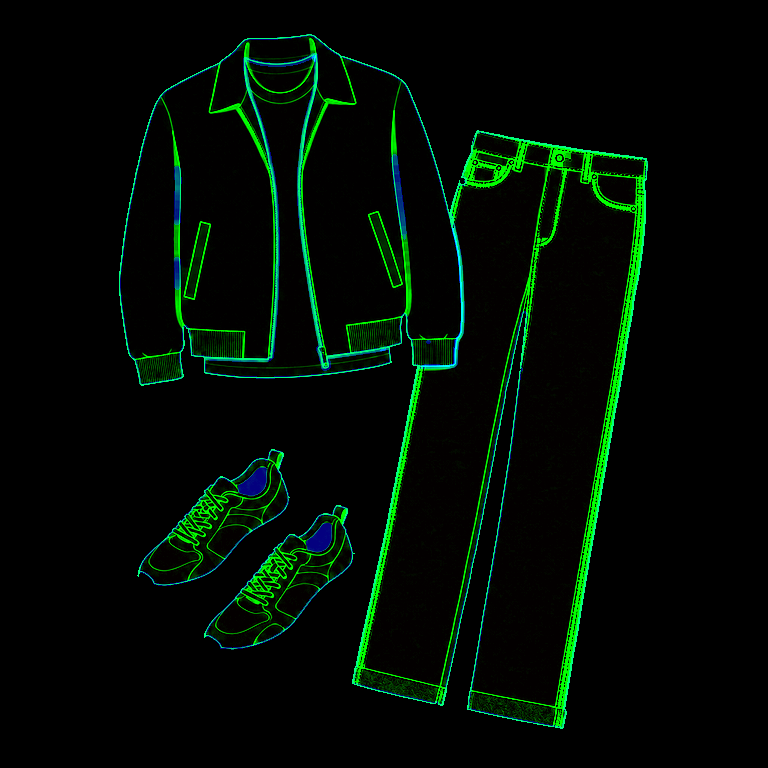
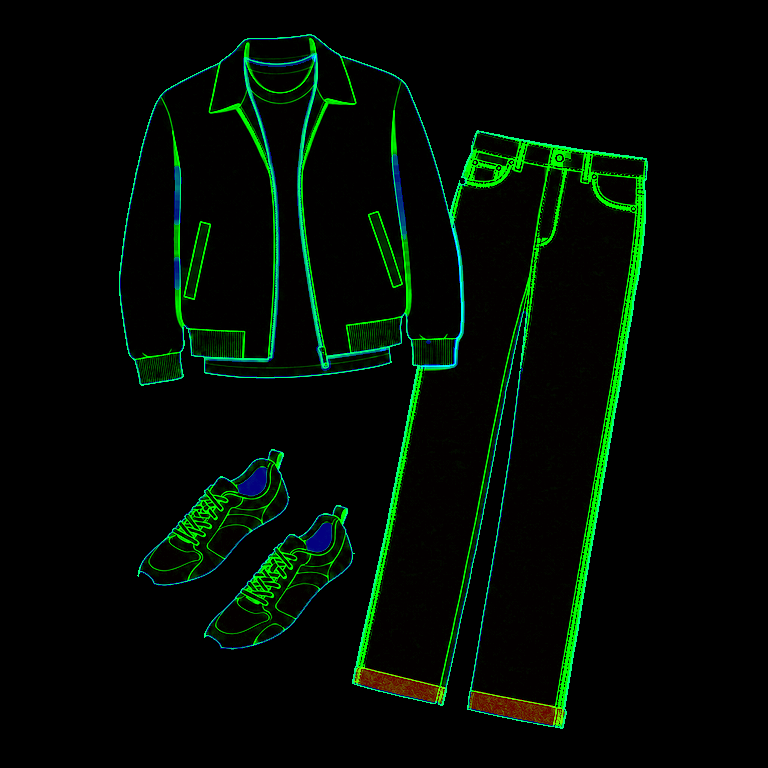
Illustrations: paint rolled jeans cuffs as the lighter inside of denim
The 7 new jeans pictures draw the rolled-up hem in a paler blue, but the
bottom slot painted it with the same flat trouser colour, so the cuff
disappeared once recoloured (reported on the live casual look).

- Mask red channel 100+n now means "lighter inside of slot n".
  renderer.js v4 paints it with the slot colour mixed 60% toward warm
  white (#F6F3EC); ids below 100 render exactly as before.
- scripts/mark_denim_cuffs.py finds the band by its lower saturation at
  the hem (2 bands per picture, 3.0k-4.0k px), keeps the outer contour on
  the leg colour, and is idempotent. Both mask builders call it for the
  7 denim ids, so a rebuild reproduces the same masks (checked).
- Tests: mask test accepts 100+n labels and requires cuffs on all 7;
  renderer unit test covers the inside colour.
- adapter.js mask ?v=7 (pictures unchanged, still v=4).

Claude-Session: https://claude.ai/code/session_01MehJjGbokh29Dqrjv8wPxF

Changed region(s): [[0.4688, 0.8438, 0.75, 0.9688]]

diff --git a/assets/dalha-illustrations/renderer.js b/assets/dalha-illustrations/renderer.js
@@ -1,9 +1,14 @@
-/** Colour renderer v3. No networking, model calls, geometry edits or coordinate resampling. */
+/** Colour renderer v4. No networking, model calls, geometry edits or coordinate resampling.
+ * Mask red channel: 0 = keep source, n = slot n, 100+n = the lighter inside of slot n
+ * (rolled-up jeans cuff, 2026-10-15) painted with slot n's colour mixed toward warm white. */
+export const INSIDE_OFFSET=100,INSIDE_MIX=.6,INSIDE_WHITE=[246,243,236];
+const penFor=t=>{const L=t[0]*.2126+t[1]*.7152+t[2]*.0722;return {edge:t.map(v=>L>=100?v*.67:Math.max(v*.50,13)),detail:t.map(v=>L>=100?v*.77:Math.max(v*.63,18))}};
 export function recolor(original,layers,colors){
  if(original.length!==layers.length || original.length%4)throw new Error('RGBA buffers must have matching lengths');
  const palette=colors.map(hex=>{if(!/^#[0-9a-f]{6}$/i.test(hex))throw new Error('Invalid colour');return [1,3,5].map(k=>parseInt(hex.slice(k,k+2),16))});
- const pens=palette.map(t=>{const L=t[0]*.2126+t[1]*.7152+t[2]*.0722;return {edge:t.map(v=>L>=100?v*.67:Math.max(v*.50,13)),detail:t.map(v=>L>=100?v*.77:Math.max(v*.63,18))}});
+ const inside=palette.map(t=>t.map((v,c)=>v+(INSIDE_WHITE[c]-v)*INSIDE_MIX));
+ const pens=palette.map(penFor),insidePens=inside.map(penFor);
  const out=new Uint8ClampedArray(original);
- for(let p=0;p<out.length;p+=4){const id=layers[p]-1;if(id<0)continue;if(!palette[id])throw new Error('Missing region colour');const line=layers[p+1]/255,shade=(layers[p+2]%128)/127,pen=layers[p+2]>=128?pens[id].edge:pens[id].detail;for(let c=0;c<3;c++)out[p+c]=Math.round(palette[id][c]*(1-.13*shade)*(1-line)+pen[c]*line)}
+ for(let p=0;p<out.length;p+=4){let id=layers[p];if(!id)continue;const isInside=id>INSIDE_OFFSET;if(isInside)id-=INSIDE_OFFSET;id-=1;if(!palette[id])throw new Error('Missing region colour');const colour=isInside?inside[id]:palette[id],pen0=isInside?insidePens[id]:pens[id];const line=layers[p+1]/255,shade=(layers[p+2]%128)/127,pen=layers[p+2]>=128?pen0.edge:pen0.detail;for(let c=0;c<3;c++)out[p+c]=Math.round(colour[c]*(1-.13*shade)*(1-line)+pen[c]*line)}
  return out;
 }

diff --git a/assets/dalha-illustrations/adapter.js b/assets/dalha-illustrations/adapter.js
@@ -19,7 +19,7 @@ export async function hydrateIllustrations(root){
   const status=node.querySelector('[data-illustration-status]');
   status.hidden=false;status.textContent='코디 이미지를 불러오고 있습니다.';
   try{
-   const [source,mask]=await Promise.all([image(BASE+entry.id+'.webp?v=4'),image(BASE+entry.id+'-layers.png?v=6')]);
+   const [source,mask]=await Promise.all([image(BASE+entry.id+'.webp?v=4'),image(BASE+entry.id+'-layers.png?v=7')]);
    if(!node.isConnected||node.dataset.dalhaIllustration!==key)return;
    const original=pixels(source),layers=pixels(mask);
    if(original.width!==layers.width||original.height!==layers.height)throw new Error('Illustration layer size mismatch');

diff --git a/scripts/mark_denim_cuffs.py b/scripts/mark_denim_cuffs.py
@@ -1,0 +1,64 @@
+"""Mark the rolled-up inside of jeans cuffs in illustration masks (2026-10-15).
+
+Real denim shows its lighter reverse side where the hem is rolled up. The source
+pictures draw that band in a paler, less saturated blue, but the bottom slot
+paints it with the same flat trouser colour. This step re-labels those pixels
+as ``100 + slot`` in the red channel; renderer.js paints them with a lightened
+version of the slot colour so the cuff stays paler than the leg in any colour.
+
+Run after the mask builders (they call it for DENIM_CUFFS) or on its own:
+    python scripts/mark_denim_cuffs.py [id ...]
+Idempotent: existing cuff labels are reset before detection.
+"""
+from pathlib import Path
+import json, io, sys
+import numpy as np
+from PIL import Image
+from scipy.ndimage import binary_opening, binary_closing, binary_dilation, label
+
+OUT = Path(__file__).resolve().parents[1] / 'assets/dalha-illustrations'
+DENIM_CUFFS = ('m-casual-a', 'm-casual-b', 'f-casual-a', 'all-019', 'all-025', 'all-054', 'all-055')
+INSIDE_OFFSET = 100
+BASE_SLOTS = ['outerColor', 'topColor', 'bottomColor', 'shoeColor']
+
+
+def bottom_slot(key):
+    for q in json.loads((OUT / 'expansion-provenance.json').read_text()):
+        if q['id'] == key:
+            return [s['field'] for s in q['slots']].index('bottomColor') + 1
+    return BASE_SLOTS.index('bottomColor') + 1
+
+
+def mark_cuffs(key):
+    path = OUT / f'{key}-layers.png'
+    layers = np.asarray(Image.open(path).convert('RGB')).copy()
+    r = layers[:, :, 0]
+    r[r > INSIDE_OFFSET] -= INSIDE_OFFSET
+    slot = bottom_slot(key)
+    a = np.asarray(Image.open(OUT / f'{key}.webp').convert('RGB')).astype(float) / 255
+    bot = r == slot
+    mx, mn = a.max(2), a.min(2)
+    sat = (mx - mn) / np.maximum(mx, 1e-6)
+    body = np.median(sat[bot & (layers[:, :, 1] < 40)])
+    cuff = bot & (sat < body - 0.12) & (sat > 0.12) & (mx > np.median(mx[bot]) - 0.02)
+    cuff = binary_closing(binary_opening(cuff, iterations=1), iterations=3) & bot
+    cc, n = label(cuff)
+    sizes = np.bincount(cc.ravel())
+    keep = [i for i in range(1, n + 1) if sizes[i] >= 250]
+    cuff = np.isin(cc, keep)
+    # Take in the stitching and inner edge of the band, but leave the outer
+    # contour of the trousers on the leg colour so the outline stays continuous.
+    cuff = (cuff | binary_dilation(cuff, iterations=2)) & bot & (layers[:, :, 2] < 128)
+    assert 600 <= cuff.sum() <= 6000, (key, int(cuff.sum()))
+    ys = np.where(cuff)[0]
+    assert ys.min() > np.where(bot)[0].max() - 120, (key, 'cuff must sit at the hem')
+    r[cuff] = slot + INSIDE_OFFSET
+    buf = io.BytesIO()
+    Image.fromarray(layers).save(buf, format='PNG')
+    path.write_bytes(buf.getvalue())
+    return int(cuff.sum())
+
+
+if __name__ == '__main__':
+    for key in sys.argv[1:] or DENIM_CUFFS:
+        print(key, mark_cuffs(key))

diff --git a/scripts/test_illustration_masks.py b/scripts/test_illustration_masks.py
@@ -9,8 +9,13 @@ for path in root.glob('*-layers.png'):
     source = Image.open(path.with_name(path.name.replace('-layers.png', '.webp')))
     source.load()
     assert source.size == (mask.shape[1], mask.shape[0]) == (768, 768), path
-    assert set(np.unique(mask[:, :, 0])) == set(range(int(mask[:, :, 0].max()) + 1)), path
-    assert all(np.count_nonzero(mask[:, :, 0] == i) > 100 for i in range(1, int(mask[:, :, 0].max()) + 1)), path
+    r = mask[:, :, 0]
+    slots = r[r < 100]
+    inside = set(np.unique(r[r > 100]) - 100)  # 100+n = lighter inside of slot n (jeans cuffs)
+    assert set(np.unique(slots)) == set(range(int(slots.max()) + 1)), path
+    assert all(np.count_nonzero(r == i) > 100 for i in range(1, int(slots.max()) + 1)), path
+    assert inside <= set(range(1, int(slots.max()) + 1)), path
+    assert not np.any(r == 100), path
 
 # Reported red bomber / blue jeans / burgundy sneakers screenshot.
 mask = np.asarray(Image.open(root / 'm-casual-b-layers.png'))[:, :, 0]
@@ -21,4 +26,13 @@ assert np.count_nonzero(mask[500:] == 1) == 0, 'No jacket colour below the jacke
 assert mask[300, 200] == 1, 'Keep jacket recolour coverage'
 assert mask[600, 500] == 3, 'Keep denim recolour coverage'
 assert mask[610, 270] == 4, 'Keep shoe upper recolour coverage'
+# 2026-10-15: rolled-up jeans cuffs carry the lighter inside label on every denim illustration.
+import sys
+sys.path.insert(0, str(Path(__file__).resolve().parent))
+from mark_denim_cuffs import DENIM_CUFFS
+for key in DENIM_CUFFS:
+    r = np.asarray(Image.open(root / f'{key}-layers.png'))[:, :, 0]
+    cuff = np.where(r > 100)
+    assert 600 <= cuff[0].size <= 6000, key
+    assert cuff[0].min() > np.where((r > 0) & (r < 100))[0].min() + 400, key
 print('PASS: All source/mask pairs and reported shadow/sole colour-spill regressions')

diff --git a/scripts/build_expanded_illustration_masks.py b/scripts/build_expanded_illustration_masks.py
@@ -3,7 +3,9 @@ from pathlib import Path
 from PIL import Image,ImageDraw
 import numpy as np,json,io
 from scipy.ndimage import grey_closing,gaussian_filter,binary_closing,binary_fill_holes,binary_dilation,distance_transform_edt,label,median_filter
-import argparse
+import argparse,sys
+sys.path.insert(0,str(Path(__file__).resolve().parent))
+from mark_denim_cuffs import DENIM_CUFFS,mark_cuffs
 p=argparse.ArgumentParser();p.add_argument('--workdir',type=Path,required=True);args=p.parse_args()
 R=args.workdir;OUT=Path(__file__).resolve().parents[1]/'assets/dalha-illustrations';P=R/'previews';P.mkdir(exist_ok=True)
 requests=json.loads((OUT/'expansion-provenance.json').read_text())
@@ -57,3 +59,4 @@ for q in requests:
   assert np.array_equal(result[layers[:,:,0]==0],a[layers[:,:,0]==0])
   Image.fromarray(np.rint(result).astype('uint8')).save(P/f'{key}-{mode}.jpg')
  checks.append({'id':key,'pixels':counts,'max_region':int(layers[:,:,0].max())})
+ if key in DENIM_CUFFS:mark_cuffs(key)  # 2026-10-15: lighter inside of rolled jeans cuffs (after previews)

diff --git a/scripts/build_illustration_masks.py b/scripts/build_illustration_masks.py
@@ -5,7 +5,9 @@ from pathlib import Path
 from PIL import Image,ImageDraw
 import numpy as np,json,io
 from scipy.ndimage import grey_closing, gaussian_filter, binary_closing, binary_fill_holes, binary_dilation, distance_transform_edt, label
-import argparse
+import argparse,sys
+sys.path.insert(0,str(Path(__file__).resolve().parent))
+from mark_denim_cuffs import DENIM_CUFFS,mark_cuffs
 p=argparse.ArgumentParser();p.add_argument('--sources',type=Path,required=True);args=p.parse_args()
 OUT=Path(__file__).resolve().parents[1]/'assets/dalha-illustrations'
 RUNNER_SHOES={'m-casual-a','m-casual-b','f-casual-a'}
@@ -50,3 +52,4 @@ for spec in specs:
 
  buf=io.BytesIO();Image.fromarray(layers).save(buf,format='PNG');(OUT/f'{key}-layers.png').write_bytes(buf.getvalue())
  buf=io.BytesIO();Image.fromarray(a.astype('uint8')).save(buf,format='WEBP',quality=94);(OUT/f'{key}.webp').write_bytes(buf.getvalue())
+ if key in DENIM_CUFFS:mark_cuffs(key)  # 2026-10-15: lighter inside of rolled jeans cuffs
